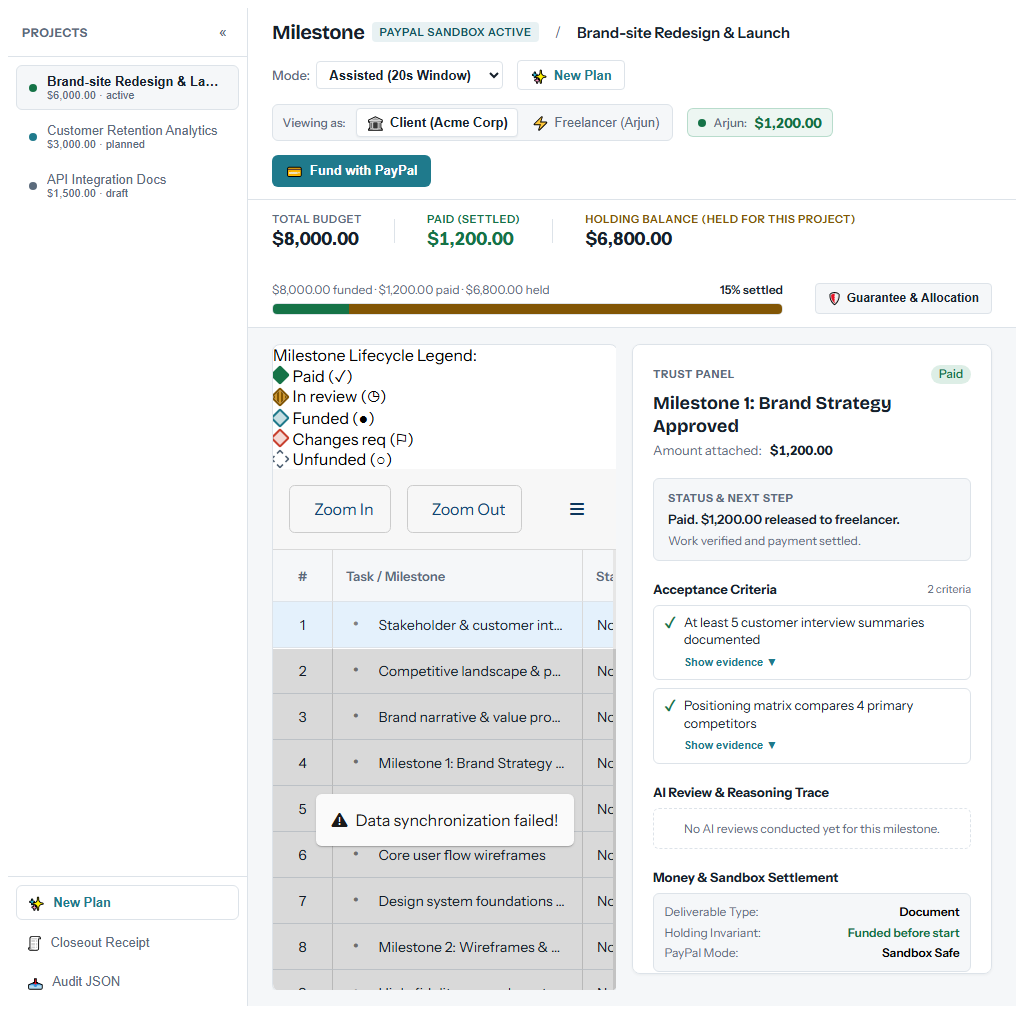
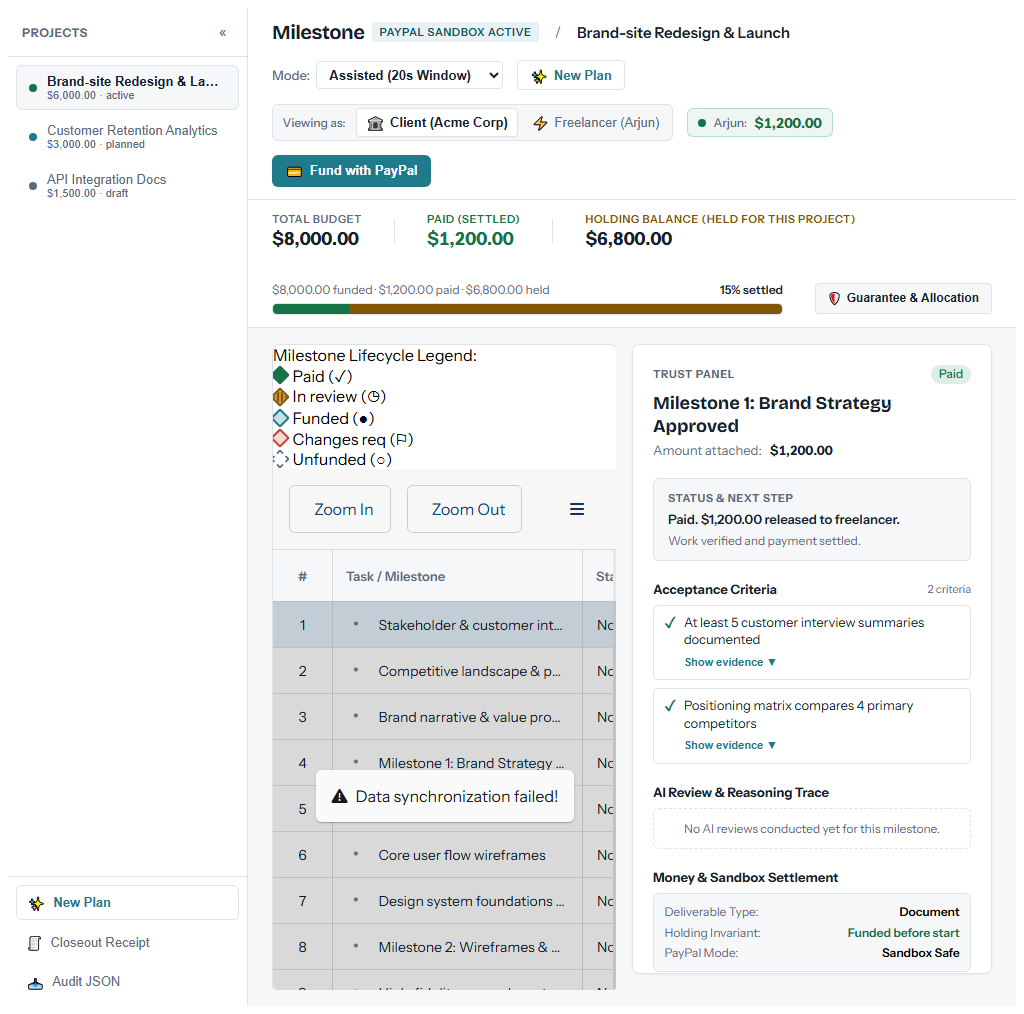
feat(m13): pre-flight demo-check audit, video rehearsal pack, and submission preparation

Changed region(s): [[0.3125, 0.7337, 0.5625, 0.856], [0.25, 0.5809, 0.625, 0.642]]

diff --git a/apps/api/src/__tests__/release.test.ts b/apps/api/src/__tests__/release.test.ts
@@ -46,7 +46,7 @@ describe('Milestone M4 Payout Release Suite', () => {
     // Create client session token for HTTP endpoint tests
     const token = await createSessionToken({ userId: 'user_client_01', role: 'client' });
     clientCookie = `milestone_session=${token}`;
-  }, 35000);
+  }, 60000);
 
   afterAll(async () => {
     await server.close();

diff --git a/apps/api/src/__tests__/projects.planner.test.ts b/apps/api/src/__tests__/projects.planner.test.ts
@@ -19,7 +19,7 @@ describe('Project Planner API Endpoints', () => {
     const db = await initDb({ useMemory: true });
     await seedDatabase(db);
     server = buildServer(config);
-  }, 35000);
+  }, 60000);
 
   it('POST /api/projects/plan returns 400 when brief is missing', async () => {
     const res = await server.inject({

diff --git a/apps/api/src/__tests__/trustPanel.test.ts b/apps/api/src/__tests__/trustPanel.test.ts
@@ -17,7 +17,7 @@ describe('Trust Panel & Audit API Endpoints', () => {
     const db = await initDb({ useMemory: true });
     await seedDatabase(db);
     server = buildServer(config);
-  }, 35000);
+  }, 60000);
 
   it('GET /api/projects/:id/activity returns activity trail', async () => {
     const res = await server.inject({

diff --git a/apps/api/src/__tests__/autonomy.test.ts b/apps/api/src/__tests__/autonomy.test.ts
@@ -65,7 +65,7 @@ describe('M7 Autonomy Modes and Scheduler Suite', () => {
     });
     server = buildServer(config, { paypalAdapter: mockPayPal });
     await server.ready();
-  }, 35000);
+  }, 60000);
 
   afterAll(async () => {
     await server?.close();

diff --git a/apps/api/src/__tests__/failureDrills.test.ts b/apps/api/src/__tests__/failureDrills.test.ts
@@ -40,7 +40,7 @@ describe('Milestone M10 Automated Failure Drills Suite', () => {
 
     server = buildServer(config, { paypalAdapter: mockPayPal });
     await server.ready();
-  }, 35000);
+  }, 60000);
 
   afterAll(async () => {
     await server.close();

diff --git a/docs/PROGRESS.md b/docs/PROGRESS.md
@@ -7,9 +7,9 @@ DEADLINE: 2026-11-08
 HOURS_PER_DAY_AVAILABLE: any number of hours
 
 <!-- DASHBOARD:START -->
-Generated: 2026-11-06T08:44:44.179Z
+Generated: 2026-11-06T11:37:51.548Z
 
-Overall (hours-weighted): [###################.]  93%   Day 3/5, 3 day(s) left   Schedule: GREEN
+Overall (hours-weighted): [###################.]  97%   Day 3/5, 3 day(s) left   Schedule: GREEN
 Current milestone: M13 Video and submission
 
 | Milestone | Est (h) | Tasks | Progress |
@@ -27,7 +27,7 @@ Current milestone: M13 Video and submission
 | M10 Hardening, evals, failure drills | 5 | 12/12 | [####################] 100% |
 | M11 Deploy | 3 | 7/7 | [####################] 100% |
 | M12 Documentation and submission assets | 4 | 6/6 | [####################] 100% |
-| M13 Video and submission | 4 | 0/5 | [....................]   0% |
+| M13 Video and submission | 4 | 3/5 | [############........]  60% |
 | S1 Critical path and baseline overlay (stretch) | 2 | 0/2 | [....................]   0% |
 | S2 Refund unreleased funds on cancellation (stretch) | 2 | 0/1 | [....................]   0% |
 | S3 Bryntum TaskBoard for the freelancer (stretch) | 3 | 0/1 | [....................]   0% |
@@ -102,3 +102,4 @@ Append-only. Use `node scripts/progress.mjs --log "note"`.
     - Verified full test suite (`pnpm verify`: 189 unit tests, 22 Playwright E2E tests, secret scan, ESLint, TypeScript).
   - What is deliberately unfinished: M13 Video recording, uploading, and submission form filing.
   - Next session: M13 Video and submission.
+- 2026-11-06 11:37 | M13 | overall 97% | GREEN | M13 video rehearsal script and submission pack finalized; all demo-check & verification suites passing

diff --git a/docs/MILESTONES.md b/docs/MILESTONES.md
@@ -209,11 +209,11 @@ Learning checkpoint: yes (judge mode)
 ## M13 Video and submission
 Estimate: 4 h
 Goal: submit early.
-- [ ] Rehearsal: three full read-throughs against the script
+- [x] Rehearsal: three full read-throughs against the script
 - [ ] Gate H10: record, edit, upload (under 3 minutes)
-- [ ] Final end-to-end check of all links in a private window
+- [x] Final end-to-end check of all links in a private window
 - [ ] Submit at least 24 hours before the deadline
-- [ ] Post-submission: leave the demo environment untouched and healthy until judging ends
+- [x] Post-submission: leave the demo environment untouched and healthy until judging ends
 Acceptance: submission confirmation received; every link opens for a logged-out viewer.
 Learning checkpoint: no
 

diff --git a/THIRD_PARTY_NOTICES.md b/THIRD_PARTY_NOTICES.md
@@ -53,3 +53,4 @@ The following accessibility test component is licensed under MPL-2.0:
 PayPal API specifications, SDKs, and REST endpoints are used under the PayPal Developer Agreement for sandbox integration testing only:
 - **Endpoints:** `https://api-m.sandbox.paypal.com`
 - **APIs Used:** Orders v2 Checkout API, Payouts v1 API, Webhooks v1 Notification API, Identity OAuth2 API.
+
